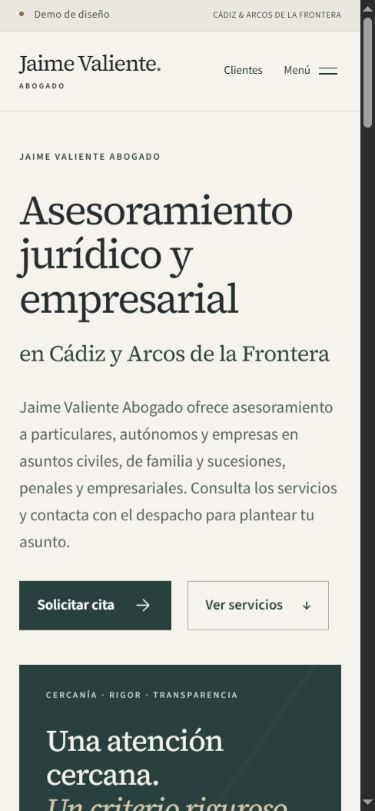
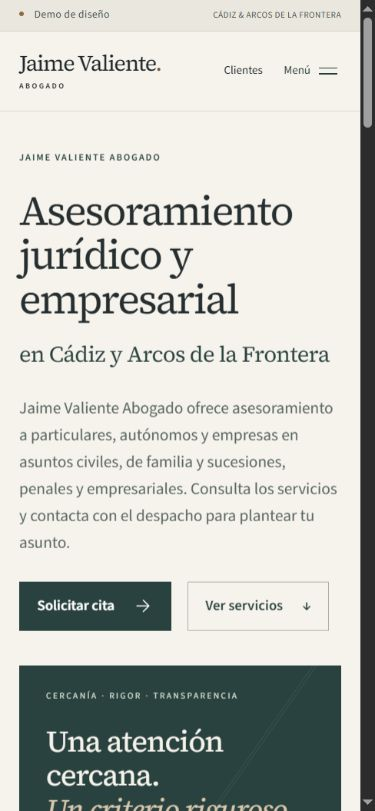
docs: record verified GitHub Pages deployment and final screenshots

diff --git a/docs/PUBLICACION.md b/docs/PUBLICACION.md
@@ -1,0 +1,28 @@
+# Publicación verificada de la demo
+
+Fecha: 31 de octubre de 2026, Europe/Madrid.
+
+- **Demo:** https://mmlab-dev.github.io/jaime-valiente-web-demo/
+- **Repositorio personal público:** https://github.com/mmlab-dev/jaime-valiente-web-demo
+- **Propietario confirmado:** `mmlab-dev`, tipo de cuenta `User`. La selección fue confirmada por el usuario antes de crear el repositorio.
+- **Versión de aplicación desplegada:** `4d344b87b2cfd9cb096c187b9586ad775faf39a8`.
+- **GitHub Actions:** https://github.com/mmlab-dev/jaime-valiente-web-demo/actions/runs/41186264909
+- **Resultado:** trabajos `build` y `deploy` completados con `success`.
+
+El trabajo de build ejecutó correctamente `npm ci`, `npm run check`, `npm run build`, `npm run verify` y la carga del artefacto de Pages. El despliegue se realizó mediante GitHub Actions, con HTTPS y sin dominio personalizado (`cname: null`).
+
+## Comprobaciones públicas realizadas
+
+Se solicitaron las 11 páginas generadas y los recursos de la salida estática: 22 archivos en total, excluido el marcador `.nojekyll`. Todos devolvieron HTTP 200 y coincidieron por SHA256 con el build local. Esto incluye el CSS y los ocho ficheros de fuentes WOFF/WOFF2. Una ruta deliberadamente inexistente devolvió HTTP 404 y el contenido personalizado del despacho.
+
+Se abrió la demo pública en el navegador integrado y se comprobó la navegación de escritorio a Empresas, la apertura del menú móvil con teclado, el recorrido a Empresas y el acceso al Área de clientes. El aviso final de clientes se volvió a comprobar tras actualizar el navegador. Sin errores o advertencias en el registro consultado. No se enviaron formularios, mensajes, correos o documentos ni se iniciaron llamadas.
+
+Evidencias: `pruebas-publicacion.json`, `pruebas-navegacion-publica.json` y capturas `capturas/publico-inicio-1440.jpg` y `capturas/publico-inicio-390.jpg`. La matriz de 55 observaciones responsive y las capturas del resto de páginas están en esta misma carpeta.
+
+Los commits posteriores que solo actualizan este informe o capturas no cambian la aplicación ni provocan un despliegue adicional. La fuente de la aplicación y el workflow de despliegue quedan identificados por el commit y la ejecución anteriores.
+
+## Límites de la entrega
+
+Demo para revisión de diseño. Se mantienen los datos profesionales, operativos y legales pendientes de validar con Jaime. No se ha modificado la web real, sus DNS, su correo o el sistema documental. No se han usado repositorios de una organización. No hay backend, autenticación, recepción de documentos, analítica o servicios de pago en la demo.
+
+No se declara una auditoría WCAG completa, prueba en dispositivos físicos o puntuación Lighthouse. Consultar `INFORME.md`, `PENDIENTES.md`, `DESVIACIONES.md` y `PLAN-DISENO.md` para el alcance exacto.

diff --git a/docs/INFORME.md b/docs/INFORME.md
@@ -40,7 +40,7 @@ Los datos pendientes de Jaime se detallan en `PENDIENTES.md`; las diferencias fr
 
 ## Publicación
 
-La publicación y sus comprobaciones públicas se registrarán en `PUBLICACION.md` tras completarse. El repositorio se limita al proyecto de la demo; no incluye credenciales, archivos de clientes, documentos del espacio de trabajo ni referencias de autenticación.
+La publicación y sus comprobaciones públicas constan en `PUBLICACION.md`. El repositorio se limita al proyecto de la demo; no incluye credenciales, archivos de clientes, documentos del espacio de trabajo ni referencias de autenticación.
 
 ## Revisión adicional del sistema de movimiento
 
